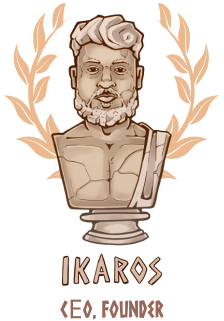
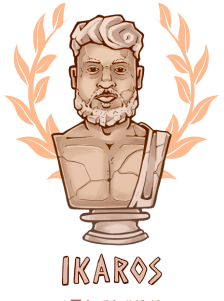
Corrections done

diff --git a/styles/landing.css b/styles/landing.css
@@ -105,21 +105,21 @@
   justify-content: space-between;
   align-items: center;
   padding-bottom: 30px;
+  overflow-x: hidden;
 }
 .landing_sectionDivider .landing_sectionDivider_left,
 .landing_sectionDivider .landing_sectionDivider_right {
-  background-image: url(../img/sectionDivider_subtract.png);
+  background-image: url(../img/sectionDivider_subtract2.png);
   height: 40px;
   width: 39%;
-  background-size: 100% 100%;
-  background-repeat: no-repeat;
+  background-repeat: repeat;
   background-position: center top;
 }
-
 .landing_mainWrapper {
   margin: 0;
   padding: 0;
   font-family: "Poppins", sans-serif;
+  scroll-behavior: smooth;
 }
 .landing_mainWrapper nav {
   width: 100%;
@@ -283,7 +283,7 @@
   background-size: 100% 100%;
   background-repeat: repeat;
   position: relative;
-  margin-top: -1px;
+  margin-top: -20px;
   padding-bottom: 80px;
   overflow: hidden;
 }
@@ -316,8 +316,11 @@
 }
 .landing_roadmap .landing_roadmap_main .landing_tabsWrapper {
   overflow-x: scroll;
+  overflow-y: hidden;
+
   -ms-overflow-style: none; /* IE and Edge */
   scrollbar-width: none;
+  height: 60px;
 }
 .landing_roadmap .landing_roadmap_main .landing_tabsWrapper::-webkit-scrollbar {
   display: none;
@@ -327,6 +330,7 @@
   justify-content: space-between;
   align-items: center;
   min-width: 936px;
+  height: 60px;
 }
 .landing_roadmap .landing_roadmap_main .landing_roadmap_tabs .landing_tabsItem {
   font-family: "Macedonia", sans-serif;
@@ -588,7 +592,7 @@
   background-image: url(../img/background.png);
   background-size: 100% 100%;
   background-repeat: repeat;
-  margin-top: -4px;
+  margin-top: -20px;
 }
 .landing_team .landing_team_main {
   display: flex;
@@ -596,6 +600,13 @@
 }
 .landing_team .landing_team_main .landing_team_item {
   width: 19%;
+  display: flex;
+  flex-direction: column;
+  justify-content: center;
+  align-items: center;
+}
+.landing_team .landing_team_main .landing_team_item .landing_textDark {
+  font-family: "Macedonia";
 }
 .landing_team .landing_team_main .landing_team_item .landing_team_itemImg {
   width: 100%;
@@ -637,6 +648,9 @@
   background-repeat: no-repeat;
   background-position: center top;
 }
+.landing_tableWide {
+  min-width: 155px!important;
+}
 
 @media screen and (max-width: 1490px) {
   .landing_features .landing_features_cloud {
@@ -644,6 +658,14 @@
   }
 }
 @media screen and (max-width: 991px) {
+  
+  .landing_sectionDivider .landing_sectionDivider_left,
+  .landing_sectionDivider .landing_sectionDivider_right {
+    width: 33%;
+  }
+  .landing_footer .landing_footer_bottom {
+    height: 194px;
+  }
   .landing_promo .landing_promo_main {
     width: 100%;
   }
@@ -691,7 +713,7 @@
     margin-left: 0px;
   }
   .landing_features .landing_features_cloud {
-    top: -72px;
+    top: -48px;
   }
   .landing_promo .landing_promo_back2,
 .landing_promo .landing_promo_front,
@@ -718,6 +740,9 @@
   }
 }
 @media screen and (max-width: 768px) {
+  .landing_footer .landing_footer_bottom {
+    height: 132px!important;
+  }
   .landing_roadmap .landing_roadmap_main .landing_roadmap_tabContent {
     zoom: 0.5;
   }
@@ -734,18 +759,40 @@
   .landing_team .landing_team_main .landing_team_item {
     width: 33%;
   }
-  .landing_footer .landing_footer_bottom {
-    height: 176px;
-  }
   .landing_tokenomics .landing_tokenomics_table .landing_tokenomics_table_side {
     width: 100%;
   }
   #landing_rmWrapper4,
-#landing_rmWrapper1 {
+  #landing_rmWrapper1 {
     height: 830px !important;
+  }
+  .landing_sectionDivider .landing_sectionDivider_left,
+  .landing_sectionDivider .landing_sectionDivider_right {
+    width: 26%;
+  }
+  .landing_footer_bannerImg {
+    width: 60%;
   }
 }
 @media screen and (max-width: 533px) {
+  
+  .landing_footer .landing_footer_sosials {
+    width: 70%;
+  }
+  .landing_promo .landing_promo_front {
+    left: -500px;
+    zoom: 0.5;
+  }
+  .landing_promo .landing_promo_back1 {
+    right: -510px;
+    zoom: 0.5;
+  }
+  .landing_promo .landing_promo_back2 {
+    zoom: 0.5;
+  }
+  .landing_footer .landing_footer_bottom {
+    height: 101px!important;
+  }
   .landing_features .landing_features_cloud {
     top: -34px;
   }
@@ -766,9 +813,6 @@
   .landing_tokenomics .landing_tokenomics_main .landing_tokenomics_legend .landing_tokenomics_legendItem {
     width: 100%;
     margin-left: 50px;
-  }
-  .landing_footer_bannerImg {
-    width: 100%;
   }
   .landing_tokenomics .landing_tokenomics_main .landing_tokenomics_bar {
     width: 300px;
@@ -791,12 +835,69 @@
     height: 470px !important;
   }
   #landing_rmWrapper4,
-#landing_rmWrapper1 {
+  #landing_rmWrapper1 {
     height: 700px !important;
   }
   #landing_rmWrapper2 {
     height: 900px !important;
   }
+  .landing_textLg {
+    font-size: 24px;
+  }
+  .navbar-collapse {
+    flex-basis: 100%;
+    flex-grow: 1;
+    align-items: center;
+    height: 100vh;
+    position: absolute;
+    z-index: 11;
+    top: -50px;
+    left: -12px;
+    background: #000;
+    background-image: url(../img/navBg.png);
+    background-size: 100% 100%;
+    background-repeat: no-repeat;
+    background-position: center top;
+    width: 108%;
+    padding: 20px;
+  }
+  .collapse .show .navbar-toggler-icon {
+    background-image: url(../img/x.png);
+  }
+  .navbar-toggler {
+    z-index: 12;
+  }
+  .landing_promo .navbar .nav-link, .landing_promo .navbar .landing_contractAddr {
+    color: #5A130A;
+  }
+  .landing_promo .navbar .landing_contractAddr {
+    font-size: 11px;
+  }
+}
+@media screen and (max-width: 416px) {
+  
+  .landing_features .landing_features_cloud {
+    top: -18px;
+  }
+  .landing_footer .landing_footer_bottom {
+    height: 80px!important;
+  }
+  .landing_roadmap .landing_roadmap_main .landing_roadmap_tabContent {
+    zoom: 0.3;
+  }
+  #landing_rmWrapper4, #landing_rmWrapper1 {
+    height: 506px!important;
+  }
+  #landing_rmWrapper2 {
+    height: 683px!important;
+  }
+  .landing_roadmap .landing_roadmap_main #landing_rmWrapper3 {
+    height: 450px;
+  }
+  #landing_rmWrapper6, #landing_rmWrapper5 {
+    height: 354px!important;
+  }
+  
 }
 @media screen and (max-width: 370px) {
   .landing_features .landing_features_main {

diff --git a/pages/landing.js b/pages/landing.js
@@ -1,6 +1,6 @@
 import $ from 'jquery';
 import Rellax from 'rellax';
-import React, { useRef, useEffect } from "react";
+import React, { useRef, useEffect } from 'react';
 import Phase1 from '../components/landingRmPhase1';
 import Phase2 from '../components/landingRmPhase2';
 import Phase3 from '../components/landingRmPhase3';
@@ -9,18 +9,18 @@ import Phase5 from '../components/landingRmPhase5';
 import Phase6 from '../components/landingRmPhase6';
 
 function Landing() {
-    const rellaxRef = useRef();
-    useEffect(() => {
-        new Rellax(".rellax", { // <---- Via class name
-          speed: -2,
-          center: false,
-          wrapper: null,
-          round: true,
-          vertical: true,
-          horizontal: false
-        });
-    
-      }, []);
+  const rellaxRef = useRef();
+  useEffect(() => {
+    new Rellax('.rellax', {
+      // <---- Via class name
+      speed: -2,
+      center: false,
+      wrapper: null,
+      round: true,
+      vertical: true,
+      horizontal: false,
+    });
+  }, []);
   return (
     <div className="landing_mainWrapper">
       <section className="landing_promo">
@@ -615,7 +615,7 @@ function Landing() {
                 <div className="landing_tokenomics_table_sideLine_item landing_textDark landing_textMd">
                   2%
                 </div>
-                <div className="landing_tokenomics_table_sideLine_item landing_textDark landing_textMd">
+                <div className="landing_tokenomics_table_sideLine_item landing_textDark landing_textMd landing_tableWide">
                   goes to redeem coins <br />
                   from liquidity and are <br />
                   burned
@@ -628,7 +628,7 @@ function Landing() {
                 <div className="landing_tokenomics_table_sideLine_item landing_textDark landing_textMd">
                   2%
                 </div>
-                <div className="landing_tokenomics_table_sideLine_item landing_textDark landing_textMd">
+                <div className="landing_tokenomics_table_sideLine_item landing_textDark landing_textMd landing_tableWide">
                   goes on burning
                 </div>
               </div>
@@ -651,18 +651,23 @@ function Landing() {
           <div className="landing_team_main">
             <div className="landing_team_item">
               <img src="img/theron.png" className="landing_team_itemImg" />
+              <span className="landing_textDark">cto, founder</span>
             </div>
             <div className="landing_team_item">
               <img src="img/lykos.png" className="landing_team_itemImg" />
+              <span className="landing_textDark">cmo, founder</span>
             </div>
             <div className="landing_team_item">
               <img src="img/alexios.png" className="landing_team_itemImg" />
+              <span className="landing_textDark">coo, founder</span>
             </div>
             <div className="landing_team_item">
               <img src="img/kserkes.png" className="landing_team_itemImg" />
+              <span className="landing_textDark">advisor, marketing expert</span>
             </div>
             <div className="landing_team_item">
               <img src="img/ikaros.png" className="landing_team_itemImg" />
+              <span className="landing_textDark">ceo, founder</span>
             </div>
           </div>
         </div>
@@ -685,7 +690,7 @@ function Landing() {
             <img src="img/yt.png" alt="" />
           </button>
         </div>
-        <div className="landing_footer_bottom">&nbsp</div>
+        <div className="landing_footer_bottom"></div>
       </footer>
     </div>
   );
